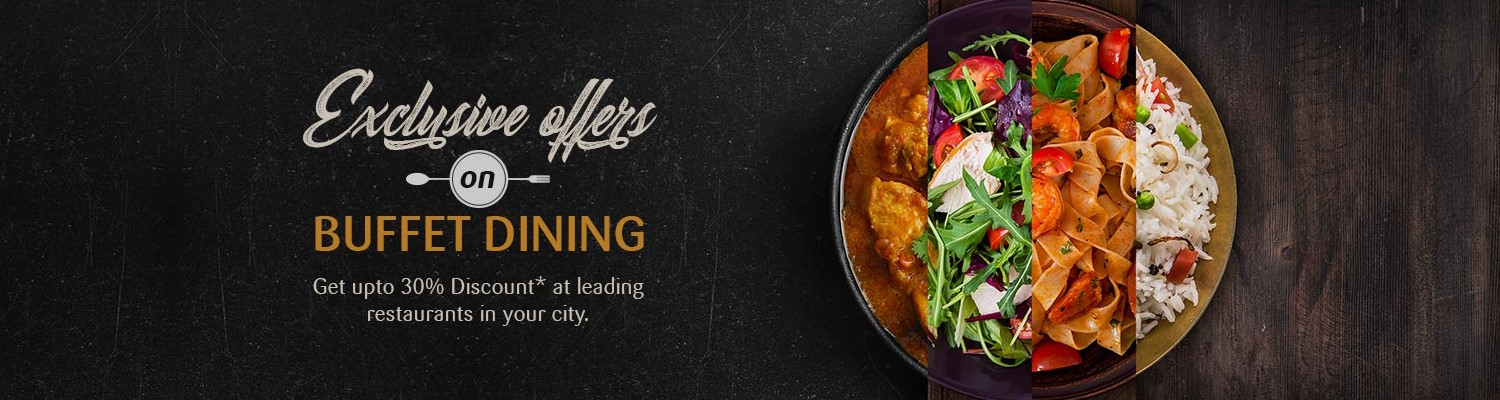
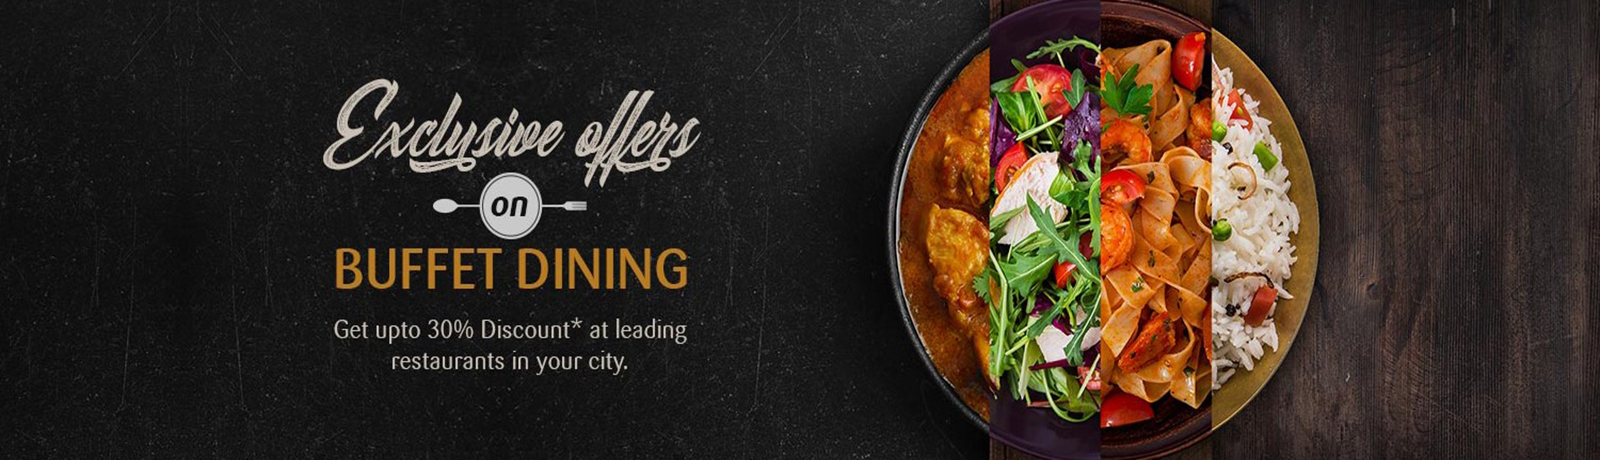
no minimum order light fast delivery live order traking

diff --git a/index.html b/index.html
@@ -189,7 +189,7 @@
           <img class="d-block w-100" src="Images/offers5.png" alt="Second slide">
         </div>
         <div class="carousel-item">
-          <img class="d-block w-100" src="Images/6fbb5b1a147ca4e819731ce774583021.jpg" alt="Third slide">
+          <img class="d-block w-100" src="Images/offer4.jpg" alt="Third slide">
         </div>
       </div>
       <a class="carousel-control-prev" href="#carouselExampleIndicators" role="button" data-slide="prev">
@@ -215,22 +215,30 @@
     <button id="order" type="button" class="btn btn-warning">Order Now</button>
   </div>
 
-
-
-
-
-
-
-
-
-
-
-
-
-
-
-
   <!-- ------------------------------------------------------------------------------------- -->
+
+  <div class="detail">
+    <div class="minimul-order">
+      <img src="/Images/under_wc1.png" alt=""  width="112px" height="206">
+      <h3>No Minimum Order</h3>
+      <p>Order in for yourself or for the group, with no restrictions on order value</p>
+
+    </div>
+    <div class="live-tracking">
+      <img src="/Images/under_wc2.png" alt=""  width="112px" height="206">
+      <h3>Live Order Tracking</h3>
+      <p>Know where your order is at all times, from the restaurant to your doorstep</p>
+
+    </div>
+    <div class="fast-delivery">
+      <img src="/Images/under_wc3.png" alt=""  width="112px" height="206">
+      <h3>Lightning-Fast Delivery</h3>
+      <p>Experience Swiggy's superfast delivery for food delivered fresh & on time</p>
+
+    </div>
+    
+  </div>
+
   <!--Whatsapp Support-->
   <a href="https://api.whatsapp.com/send?phone=919328681205&text=I Want to Order Food." class="float" target="_blank">
     <i class="fa fa-whatsapp my-float"></i>

diff --git a/CSS/style.css b/CSS/style.css
@@ -230,3 +230,42 @@ margin-top:16px;
     padding: 6px 20px;
     border-radius: 30px;
   }
+
+  /**************Below Order Button{Start}**************/
+    .detail{
+      color: white;
+      display: flex;
+      justify-content: space-around;
+      flex-wrap: wrap;
+      
+    }
+
+    .detail .minimul-order{
+      justify-content: center;
+      text-align: center;
+    }
+    .detail .minimul-order p{
+      display: block;
+      margin: 10px auto;
+      width: 70%;
+    }
+    .detail .live-tracking{
+      justify-content: center;
+      text-align: center;
+    }
+    .detail .live-tracking p{
+      display: block;
+      margin: 10px auto;
+      width: 70%;
+    }
+    .detail .fast-delivery{
+      justify-content: center;
+      text-align: center;
+    }
+    .detail .fast-delivery p{
+      display: block;
+      margin: 10px auto;
+      width: 70%;
+    }
+    
+  /**************Below Order Button{End}**************/
